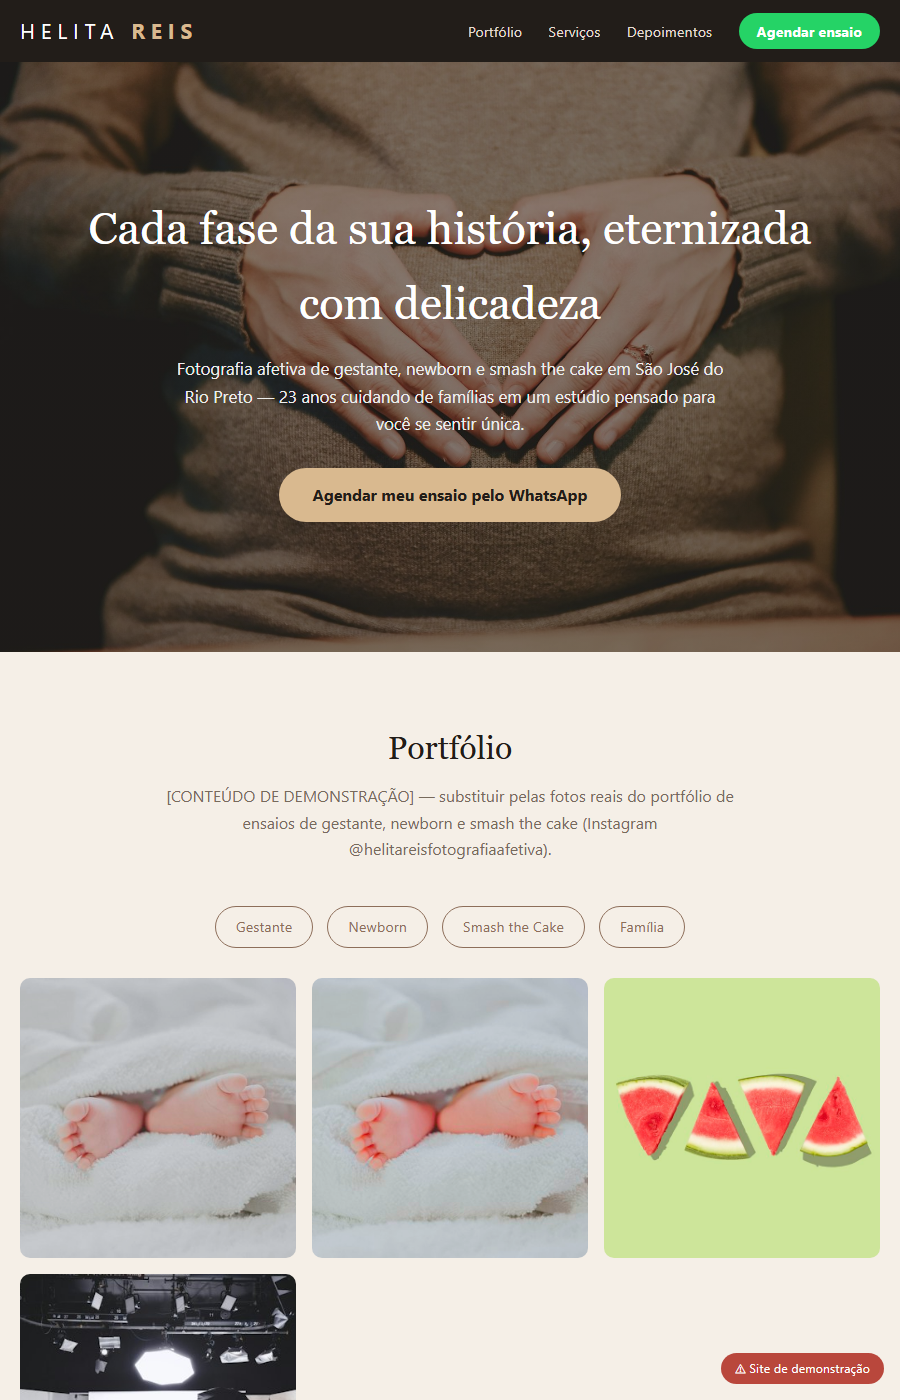
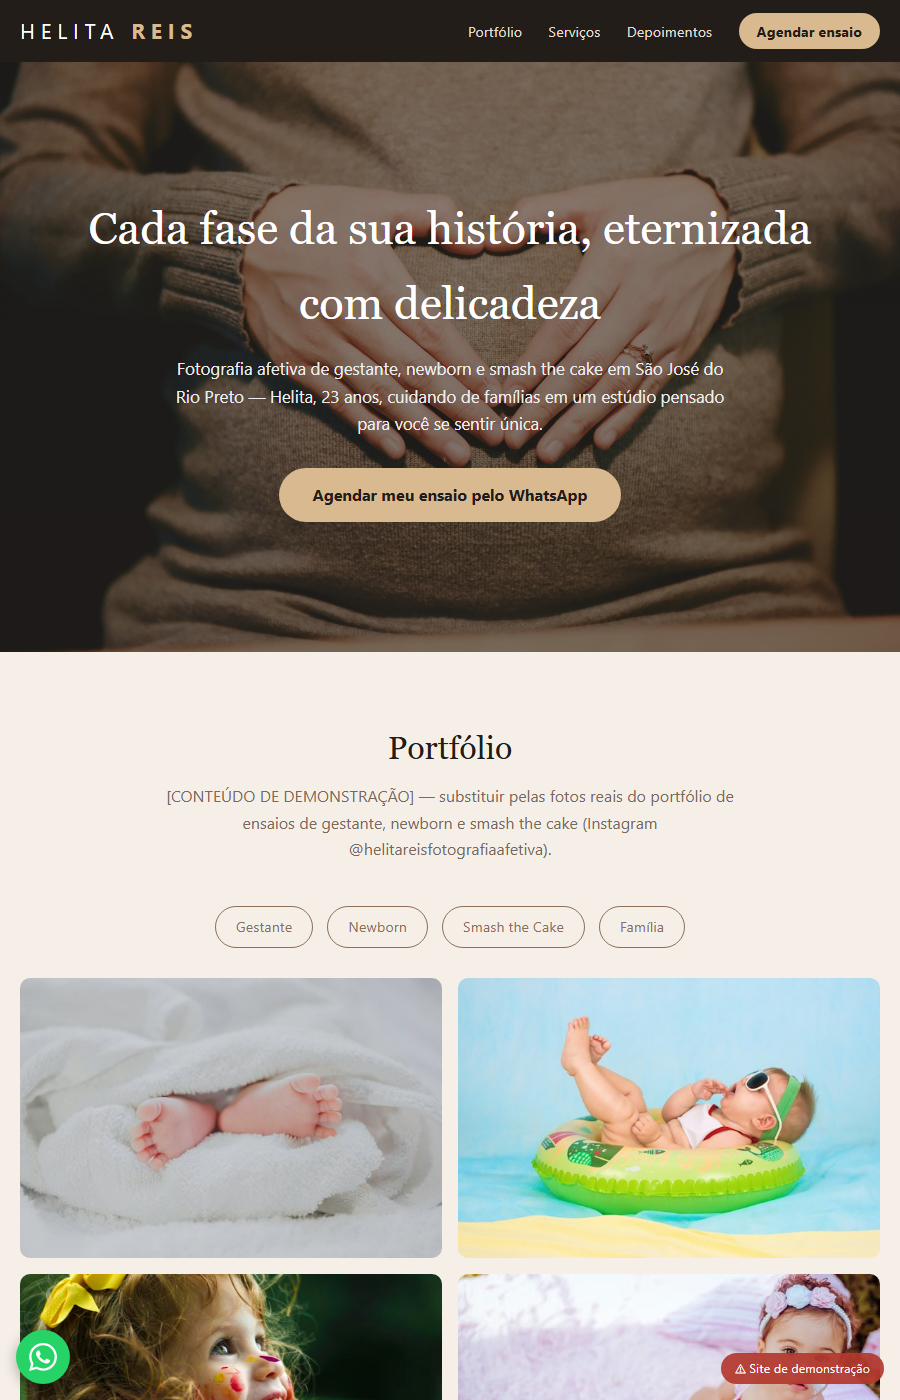
protos: publica helita-reis (gate R5: 6.5/10 )

diff --git a/p/helita-reis/index.html b/p/helita-reis/index.html
@@ -4,7 +4,7 @@
 <meta charset="UTF-8">
 <meta name="viewport" content="width=device-width, initial-scale=1.0">
 <title>Helita Reis — Fotografia Afetiva | Gestante, Newborn e Smash the Cake em São José do Rio Preto</title>
-<meta name="description" content="Helita Reis Fotografia Afetiva: 23 anos registrando gestantes, newborns e famílias em São José do Rio Preto, com estúdio físico próprio. Agende seu ensaio pelo WhatsApp.">
+<meta name="description" content="Helita Reis, 23 anos, fotografia afetiva: gestantes, newborns e famílias em São José do Rio Preto, com estúdio físico próprio. Agende seu ensaio pelo WhatsApp.">
 <style>
   *{margin:0;padding:0;box-sizing:border-box}
   :root{--terroso:#8d6e5a;--escuro:#221d19;--areia:#f5efe7;--texto:#40372f}
@@ -18,7 +18,7 @@
   .logo b{color:#d9b98f}
   nav a{color:#e5ddd2;text-decoration:none;margin-left:22px;font-size:.9rem}
   nav a:hover{color:#d9b98f}
-  .wa-btn{background:#25d366;color:#fff!important;padding:8px 18px;border-radius:24px;font-weight:bold}
+  .wa-btn{background:#d9b98f;color:#221d19!important;padding:8px 18px;border-radius:24px;font-weight:bold}
   .hero{background:linear-gradient(rgba(34,29,25,.5),rgba(34,29,25,.6)),url('https://images.unsplash.com/photo-1493894473891-10fc1e5dbd22?w=1600&q=70') center/cover;color:#fff;text-align:center;padding:130px 20px}
   .hero h1{font-size:clamp(1.9rem,5vw,3rem);max-width:760px;margin:0 auto 14px}
   .hero p{max-width:560px;margin:0 auto 30px;color:#eee;font-size:1.05rem}
@@ -27,7 +27,7 @@
   section{padding:70px 0}
   h2{text-align:center;font-size:2rem;margin-bottom:8px;color:var(--escuro)}
   .sub{text-align:center;max-width:620px;margin:0 auto 44px;color:#776a5c}
-  .galeria{display:grid;grid-template-columns:repeat(auto-fit,minmax(240px,1fr));gap:16px}
+  .galeria{display:grid;grid-template-columns:repeat(auto-fit,minmax(300px,1fr));gap:16px}
   .galeria img{width:100%;height:280px;object-fit:cover;border-radius:10px;transition:transform .3s}
   .galeria img:hover{transform:scale(1.03)}
   .tags{display:flex;gap:14px;justify-content:center;flex-wrap:wrap;margin-bottom:30px}
@@ -46,6 +46,9 @@
   .placeholder{background:rgba(255,255,255,.06);border:2px dashed #d9b98f;border-radius:10px;padding:24px;max-width:520px;margin:26px auto 0;text-align:left;color:#d9b98f;font-size:.9rem}
   .footer{background:#171310;color:#96897a;text-align:center;padding:26px 20px;font-size:.85rem}
   @media(max-width:760px){nav a{margin-left:10px;font-size:.78rem}}
+  @media(max-width:560px){nav a:not(.wa-btn){display:none}.logo{letter-spacing:2px;font-size:1.1rem}.wa-btn{padding:8px 14px}}
+  .wa-float{position:fixed;bottom:16px;left:16px;background:#25d366;color:#fff;width:54px;height:54px;border-radius:50%;display:flex;align-items:center;justify-content:center;z-index:98;box-shadow:0 4px 14px rgba(0,0,0,.3)}
+  .wa-float svg{width:28px;height:28px;fill:#fff}
 </style>
 </head>
 <body>
@@ -65,7 +68,7 @@
 
 <div class="hero">
   <h1>Cada fase da sua história, eternizada com delicadeza</h1>
-  <p>Fotografia afetiva de gestante, newborn e smash the cake em São José do Rio Preto — 23 anos cuidando de famílias em um estúdio pensado para você se sentir única.</p>
+  <p>Fotografia afetiva de gestante, newborn e smash the cake em São José do Rio Preto — Helita, 23 anos, cuidando de famílias em um estúdio pensado para você se sentir única.</p>
   <a class="cta" href="#contato">Agendar meu ensaio pelo WhatsApp</a>
 </div>
 
@@ -77,10 +80,12 @@
       <span class="tag">Gestante</span><span class="tag">Newborn</span><span class="tag">Smash the Cake</span><span class="tag">Família</span>
     </div>
     <div class="galeria">
-      <img src="https://images.unsplash.com/photo-1555252333-9f8e92e65df9?w=600&q=70" alt="Ensaio gestante">
-      <img src="https://images.unsplash.com/photo-1555252333-9f8e92e65df9?w=600&q=70&sat=60" alt="Newborn">
-      <img src="https://images.unsplash.com/photo-1595475207225-428b62bda831?w=600&q=70" alt="Ensaio feminino">
-      <img src="https://images.unsplash.com/photo-1471341971476-ae15ff5dd4ea?w=600&q=70" alt="Estúdio">
+      <img src="https://images.unsplash.com/photo-1555252333-9f8e92e65df9?w=600&q=70" alt="Newborn — foto ilustrativa" loading="lazy" width="600" height="400">
+      <img src="https://images.unsplash.com/photo-1519689680058-324335c77eba?w=600&q=70" alt="Ensaio baby temático — foto ilustrativa" loading="lazy" width="600" height="400">
+      <img src="https://images.unsplash.com/photo-1503454537195-1dcabb73ffb9?w=600&q=70" alt="Ensaio infantil criativo — foto ilustrativa" loading="lazy" width="600" height="400">
+      <img src="https://images.pexels.com/photos/16322555/pexels-photo-16322555.jpeg?auto=compress&cs=tinysrgb&w=600" alt="Smash the cake — bebê com o bolo arrebentado (foto ilustrativa)" loading="lazy" width="600" height="400" style="object-fit:cover">
+      <img src="https://images.pexels.com/photos/10498062/pexels-photo-10498062.jpeg?auto=compress&cs=tinysrgb&w=600" alt="Ensaio em família — foto ilustrativa" loading="lazy" width="600" height="400" style="object-fit:cover">
+      <img src="https://images.unsplash.com/photo-1522771930-78848d9293e8?w=600&q=70" alt="Cantinho do bebê — foto ilustrativa" loading="lazy" width="600" height="400">
     </div>
   </div>
 </section>
@@ -101,8 +106,8 @@
   <div class="wrap">
     <div class="stats">
       <div class="grid">
-        <div><div class="num">23</div><p>anos de fotografia afetiva</p></div>
-        <div><div class="num">4.2k</div><p>famílias no Instagram @helitareisfotografiaafetiva</p></div>
+        <div><div class="num">23</div><p>anos — fotógrafa por trás do estúdio [validar com a cliente]</p></div>
+        <div><div class="num">4.2k</div><p>famílias acompanham <a href="https://instagram.com/helitareisfotografiaafetiva" style="color:#d9b98f">@helitareisfotografiaafetiva</a></p></div>
         <div><div class="num">Newborn</div><p>especialista em gestante e primeiros dias</p></div>
         <div><div class="num">SJRP</div><p>estúdio físico em Pq. Res. Comendador Mançor Daud</p></div>
       </div>
@@ -114,7 +119,7 @@
   <div class="wrap">
     <h2>O que dizem as clientes</h2>
     <p class="sub">[CONTEÚDO DE DEMONSTRAÇÃO] — substituir por depoimentos reais das avaliações do Google (nota 5.0).</p>
-    <div class="galeria" style="grid-template-columns:1fr 1fr">
+    <div class="galeria" style="grid-template-columns:repeat(auto-fit,minmax(260px,1fr))">
       <div class="depo">"Atendimento maravilhoso do início ao fim. As fotos da minha gestante ficaram um sonho!"<div class="autor">— Cliente [DEMONSTRAÇÃO]</div></div>
       <div class="depo">"Ambiente acolhedor, paciência com o bebê e resultado acima do esperado. Recomendo!"<div class="autor">— Cliente [DEMONSTRAÇÃO]</div></div>
     </div>
@@ -125,7 +130,7 @@
   <div class="wrap">
     <h2>Agende seu ensaio</h2>
     <p style="max-width:540px;margin:12px auto 0;color:#ddd">Mande uma mensagem contando qual ensaio você sonha em fazer. A gente cuida de todo o resto.</p>
-    <a class="cta" href="https://wa.me/5517996587887" style="margin-top:26px">Falar no WhatsApp</a>
+    <a class="cta" href="https://wa.me/5517996587887?text=Ol%C3%A1%20Helita!%20Vi%20seu%20portf%C3%B3lio%20e%20quero%20agendar%20um%20ensaio%20de%20" style="margin-top:26px">Falar no WhatsApp</a>
     <div class="placeholder">
       <strong>[PREENCHER COM A CLIENTE]</strong><br>
       WhatsApp: (17) 99658-7887 [CONFIRMADO no ar]<br>
@@ -136,5 +141,7 @@
 </section>
 
 <div class="footer">Helita Reis — Fotografia Afetiva · São José do Rio Preto/SP · Protótipo criado pela Agência Rio Preto Tech — não é o site oficial.</div>
+
+<a class="wa-float" href="https://wa.me/5517996587887?text=Ol%C3%A1%20Helita!%20Vi%20o%20site%20e%20quero%20agendar%20um%20ensaio%20de%20" aria-label="Falar no WhatsApp"><svg viewBox="0 0 24 24"><path d="M17.472 14.382c-.297-.149-1.758-.867-2.03-.967-.273-.099-.471-.148-.67.15-.197.297-.767.966-.94 1.164-.173.199-.347.223-.644.075-.297-.15-1.255-.463-2.39-1.475-.883-.788-1.48-1.761-1.653-2.059-.173-.297-.018-.458.13-.606.134-.133.298-.347.446-.52.149-.174.198-.298.298-.497.099-.198.05-.371-.025-.52-.075-.149-.669-1.612-.916-2.207-.242-.579-.487-.5-.669-.51-.173-.008-.371-.01-.57-.01-.198 0-.52.074-.792.372-.272.297-1.04 1.016-1.04 2.479 0 1.462 1.065 2.875 1.213 3.074.149.198 2.096 3.2 5.077 4.487.709.306 1.262.489 1.694.625.712.227 1.36.195 1.871.118.571-.085 1.758-.719 2.006-1.413.248-.694.248-1.289.173-1.413-.074-.124-.272-.198-.57-.347m-5.421 7.403h-.004a9.87 9.87 0 01-5.031-1.378l-.361-.214-3.741.982.998-3.648-.235-.374a9.86 9.86 0 01-1.51-5.26c.001-5.45 4.436-9.884 9.888-9.884 2.64 0 5.122 1.03 6.988 2.898a9.825 9.825 0 012.893 6.994c-.003 5.45-4.437 9.884-9.885 9.884m8.413-18.297A11.815 11.815 0 0012.05 0C5.495 0 .16 5.335.157 11.892c0 2.096.547 4.142 1.588 5.945L.057 24l6.305-1.654a11.882 11.882 0 005.683 1.448h.005c6.554 0 11.89-5.335 11.893-11.893a11.821 11.821 0 00-3.48-8.413z"/></svg></a>
 </body>
 </html>
